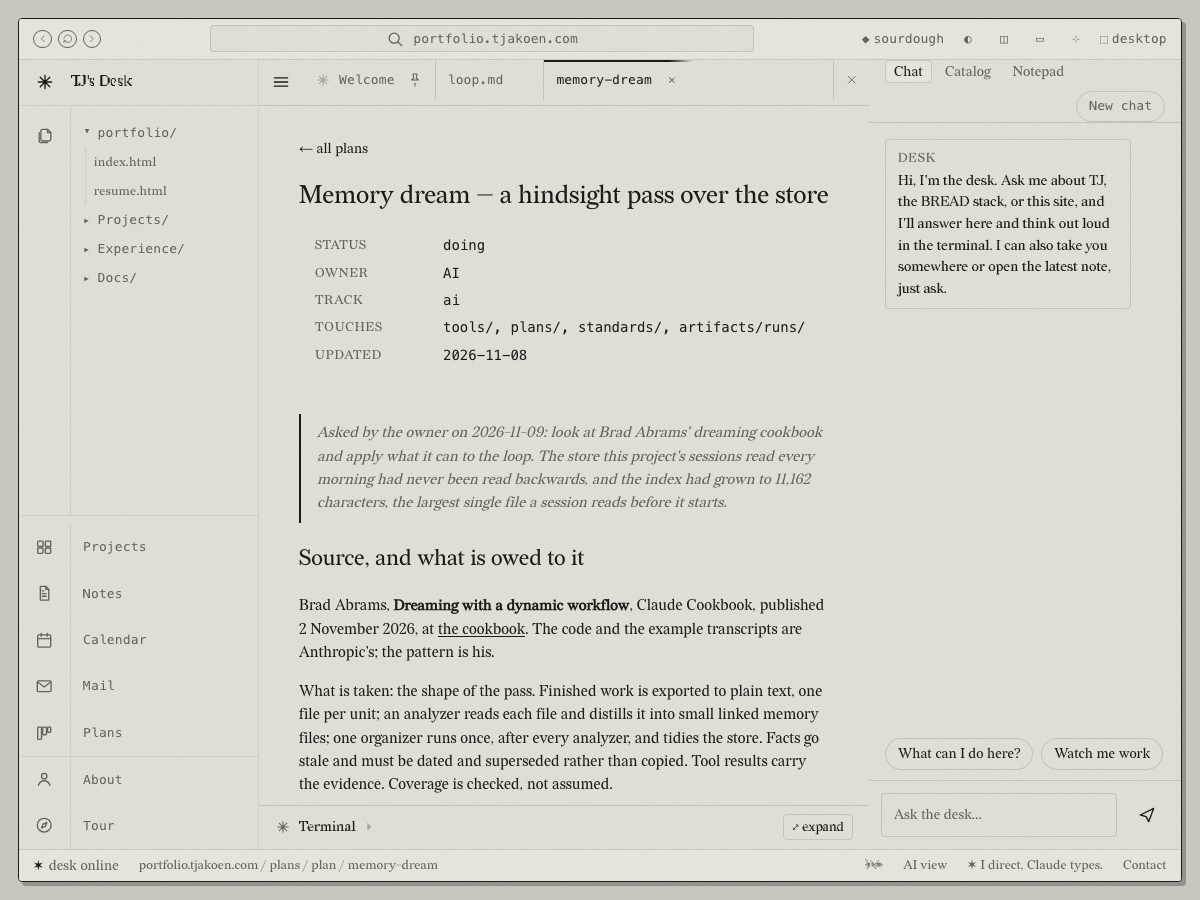
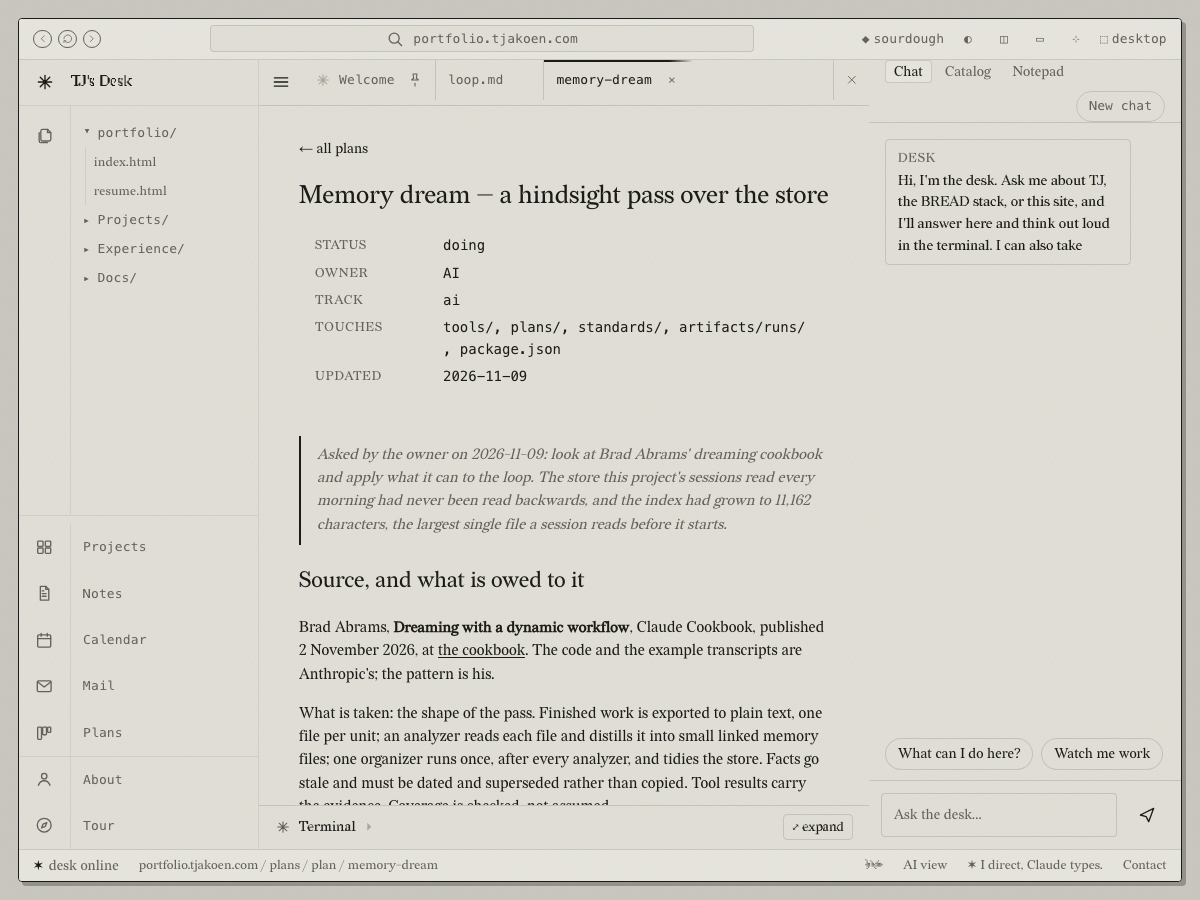
Tick the dream's two finished tasks and re-shoot the credit
The index rewrite landed, so the plan marks it done; the notes, the session-close wiring and the second dream stay open and the plan stays doing. The credit screenshot now clips the paragraph itself rather than the viewport, after the first attempt cut its last line.

diff --git a/plans/memory-dream.md b/plans/memory-dream.md
@@ -134,10 +134,12 @@ reading the diff.
 - [x] Credit the source in LOOP section 5's research base, where this project's citations live.
       **Done 2026-11-09**, and the mounted loop-standard skill was re-synced from the canon the same
       day, because a citation that only exists in a standard no agent mounts is not a citation.
-- [ ] Dream the store once: three analyzers (run reports, each half of the store), one organizer, a
-      new `MEMORY.md` applied over a snapshot with the diff shown. Partly done 2026-11-09, the
-      analyzer proposals exist; the index rewrite awaits the organizer.
-- [ ] Write the run report at `artifacts/runs/2026-11-09-memory-dream.md`.
+- [x] Dream the store once: three analyzers (run reports, each half of the store), one organizer, a
+      new `MEMORY.md` applied over a snapshot. **Done 2026-11-09.** The index went from 11,162 bytes
+      and 120 lines to 8,496 bytes and 133 lines, 99 links for 99 notes, 33 hooks corrected, and the
+      store carries its own commit. The notes themselves were not touched, which is the second task
+      below.
+- [x] Write the run report at `artifacts/runs/2026-11-09-memory-dream.md`. **Done 2026-11-09.**
 - [ ] Wire the pass to session close, in the close skill, so the trigger is the one this plan argues
       for rather than a step someone remembers.
 - [ ] A second dream, later, that is allowed to merge and retire the notes themselves, once the index

diff --git a/artifacts/runs/2026-11-09-memory-dream.md b/artifacts/runs/2026-11-09-memory-dream.md
@@ -15,7 +15,7 @@ touched:
   - artifacts/reviews/2026-11-09-memory-dream/plan.png
   - artifacts/reviews/2026-11-09-memory-dream/loop-credit.png
 diffstat: 8 files changed, 995 insertions(+), this report not counted
-unpushed: 1, the commit itself, left for the owner to push
+unpushed: 2, this change and its follow-up, left for the owner to push
 verifiedBy: 938 unit tests, the typecheck, the lint gate at 4483, 23 tests in the new file, a second-pass review by an agent that did not write the change, and two screenshots
 doctor: run at 02:16, the context row still warns at 28,834 characters across four files, the index is no longer the largest of them
 ---
